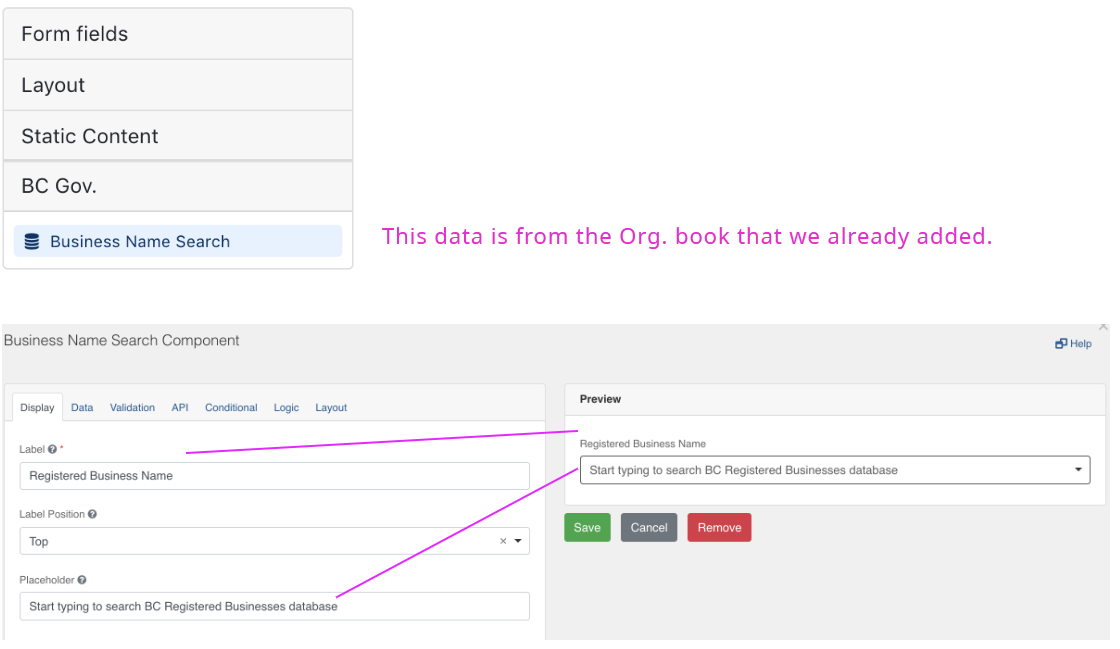
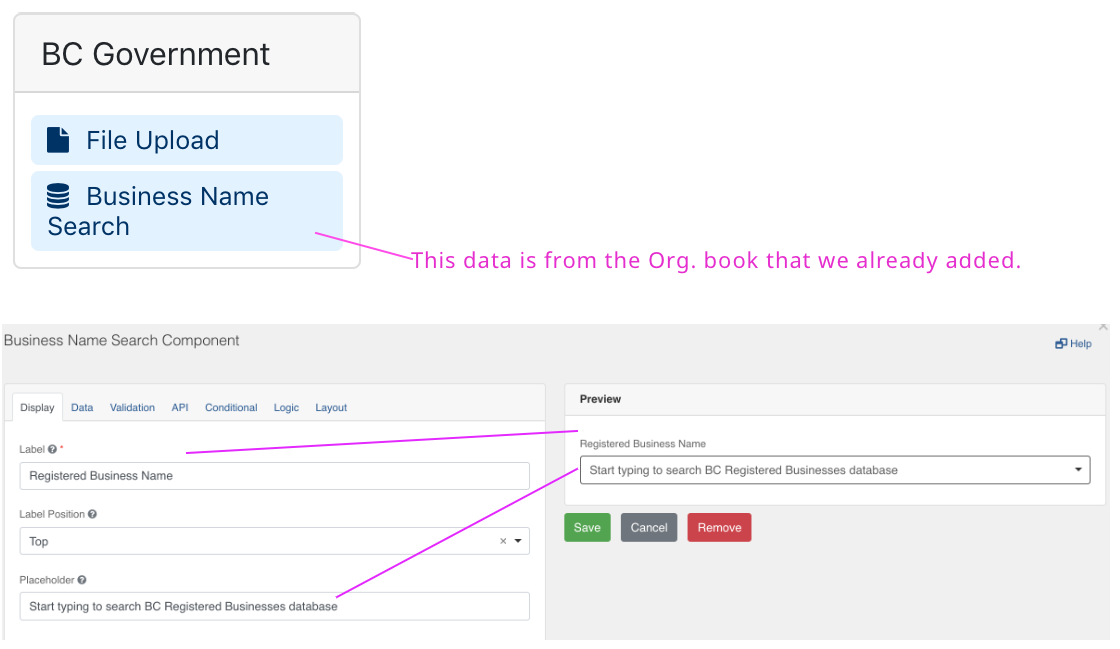
updated user-guide

Changed region(s): [[0.3125, 0.339, 0.9062, 0.4314], [0.0, 0.1849, 0.3125, 0.4006], [0.0, 0.0308, 0.25, 0.1541]]

diff --git a/Quick-Start-Guide.md b/Quick-Start-Guide.md
@@ -48,6 +48,12 @@ A form is made up of form ‘components’ for example input fields, checkboxes 
 
 ![Form Structure](images/form_structure.png)
 
+# Basic / Advanced Components
+
+Advanced components have more configuration options (for example: advanced conditional logic). It will help to have some experience with javascript and programming when using advanced components.
+
+![Form Structure](images/basic_advanced.png)
+
 ## Text Field
 
 When you drag a text field onto the form you will see this dialog screen.
